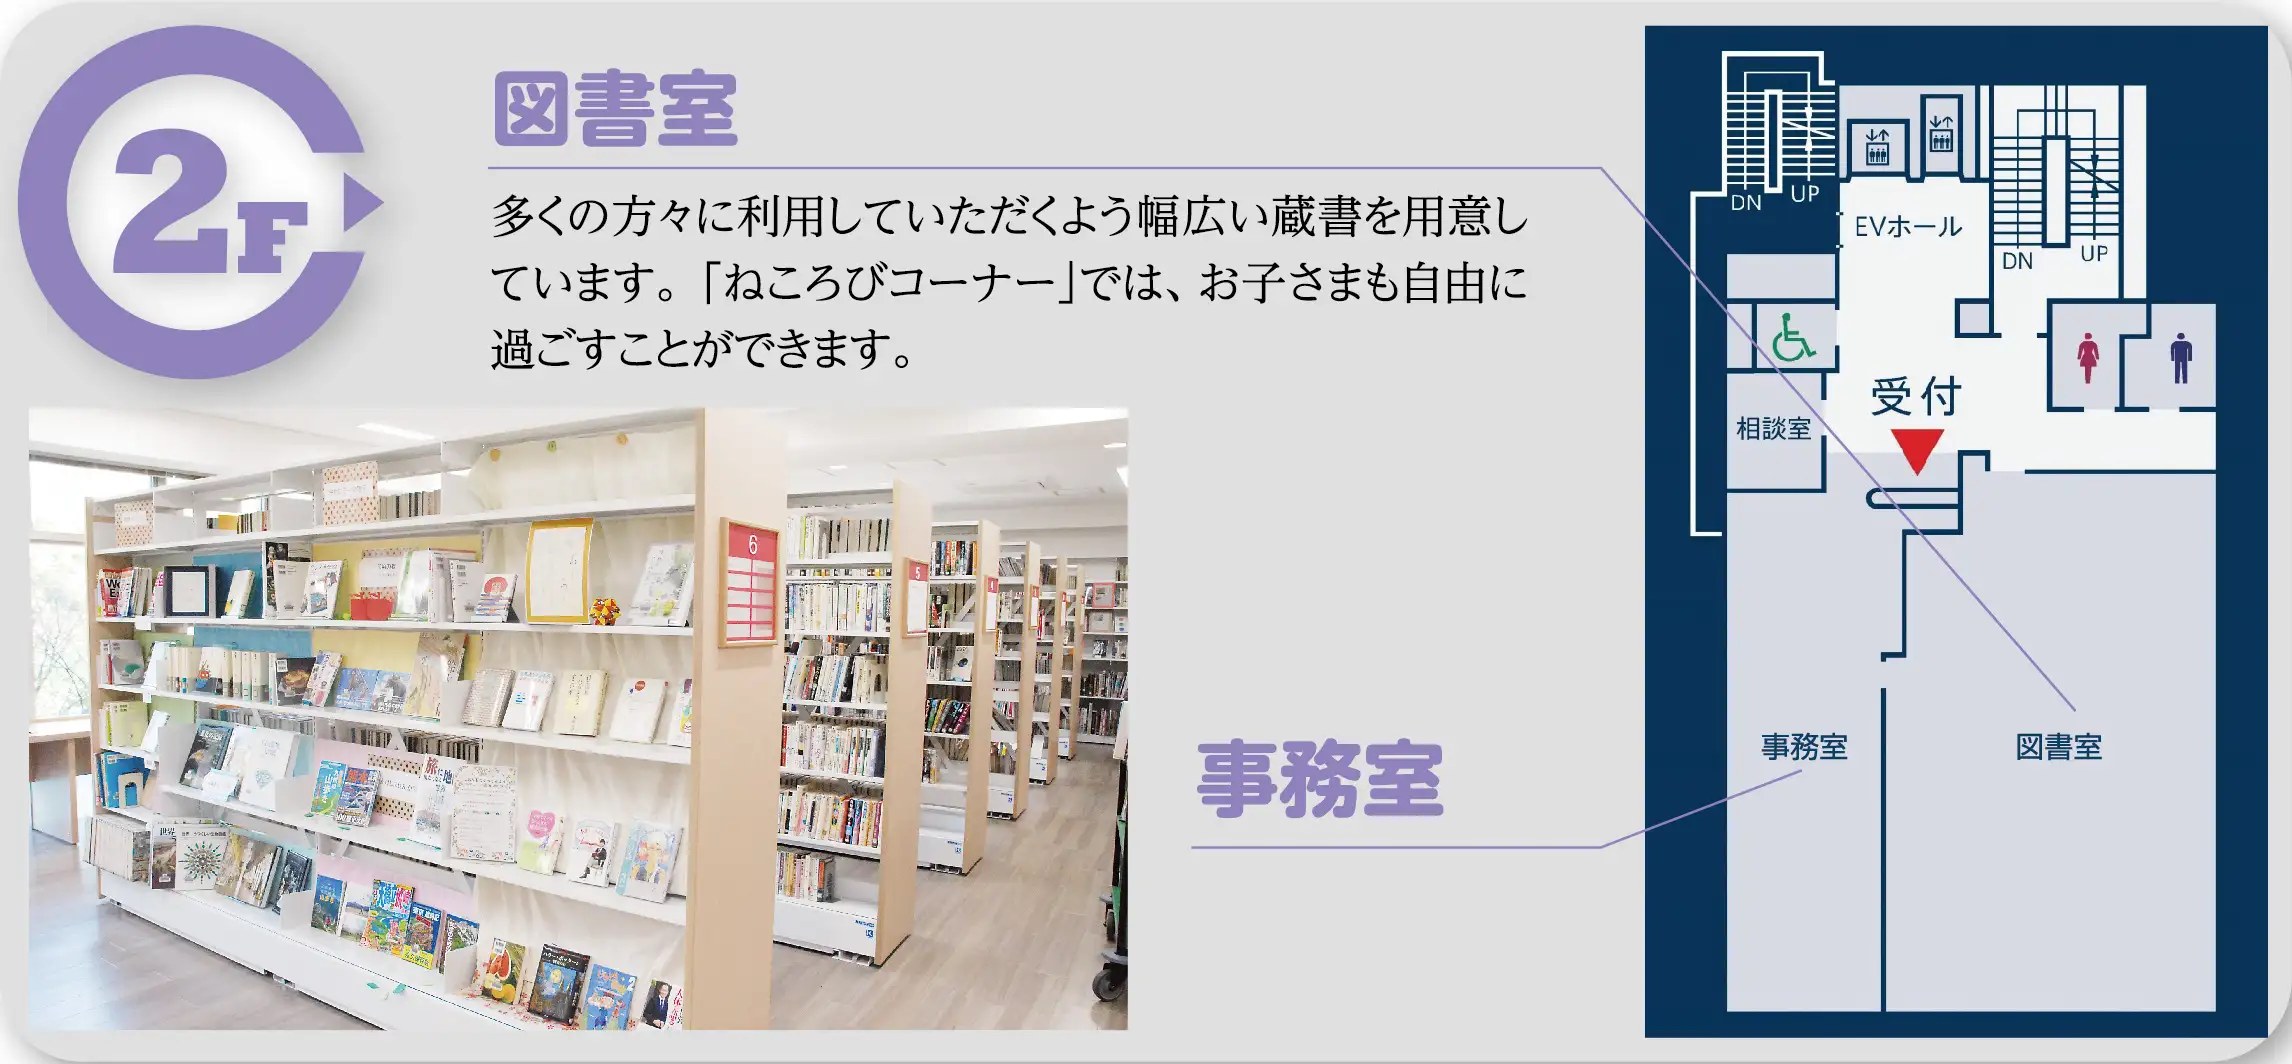
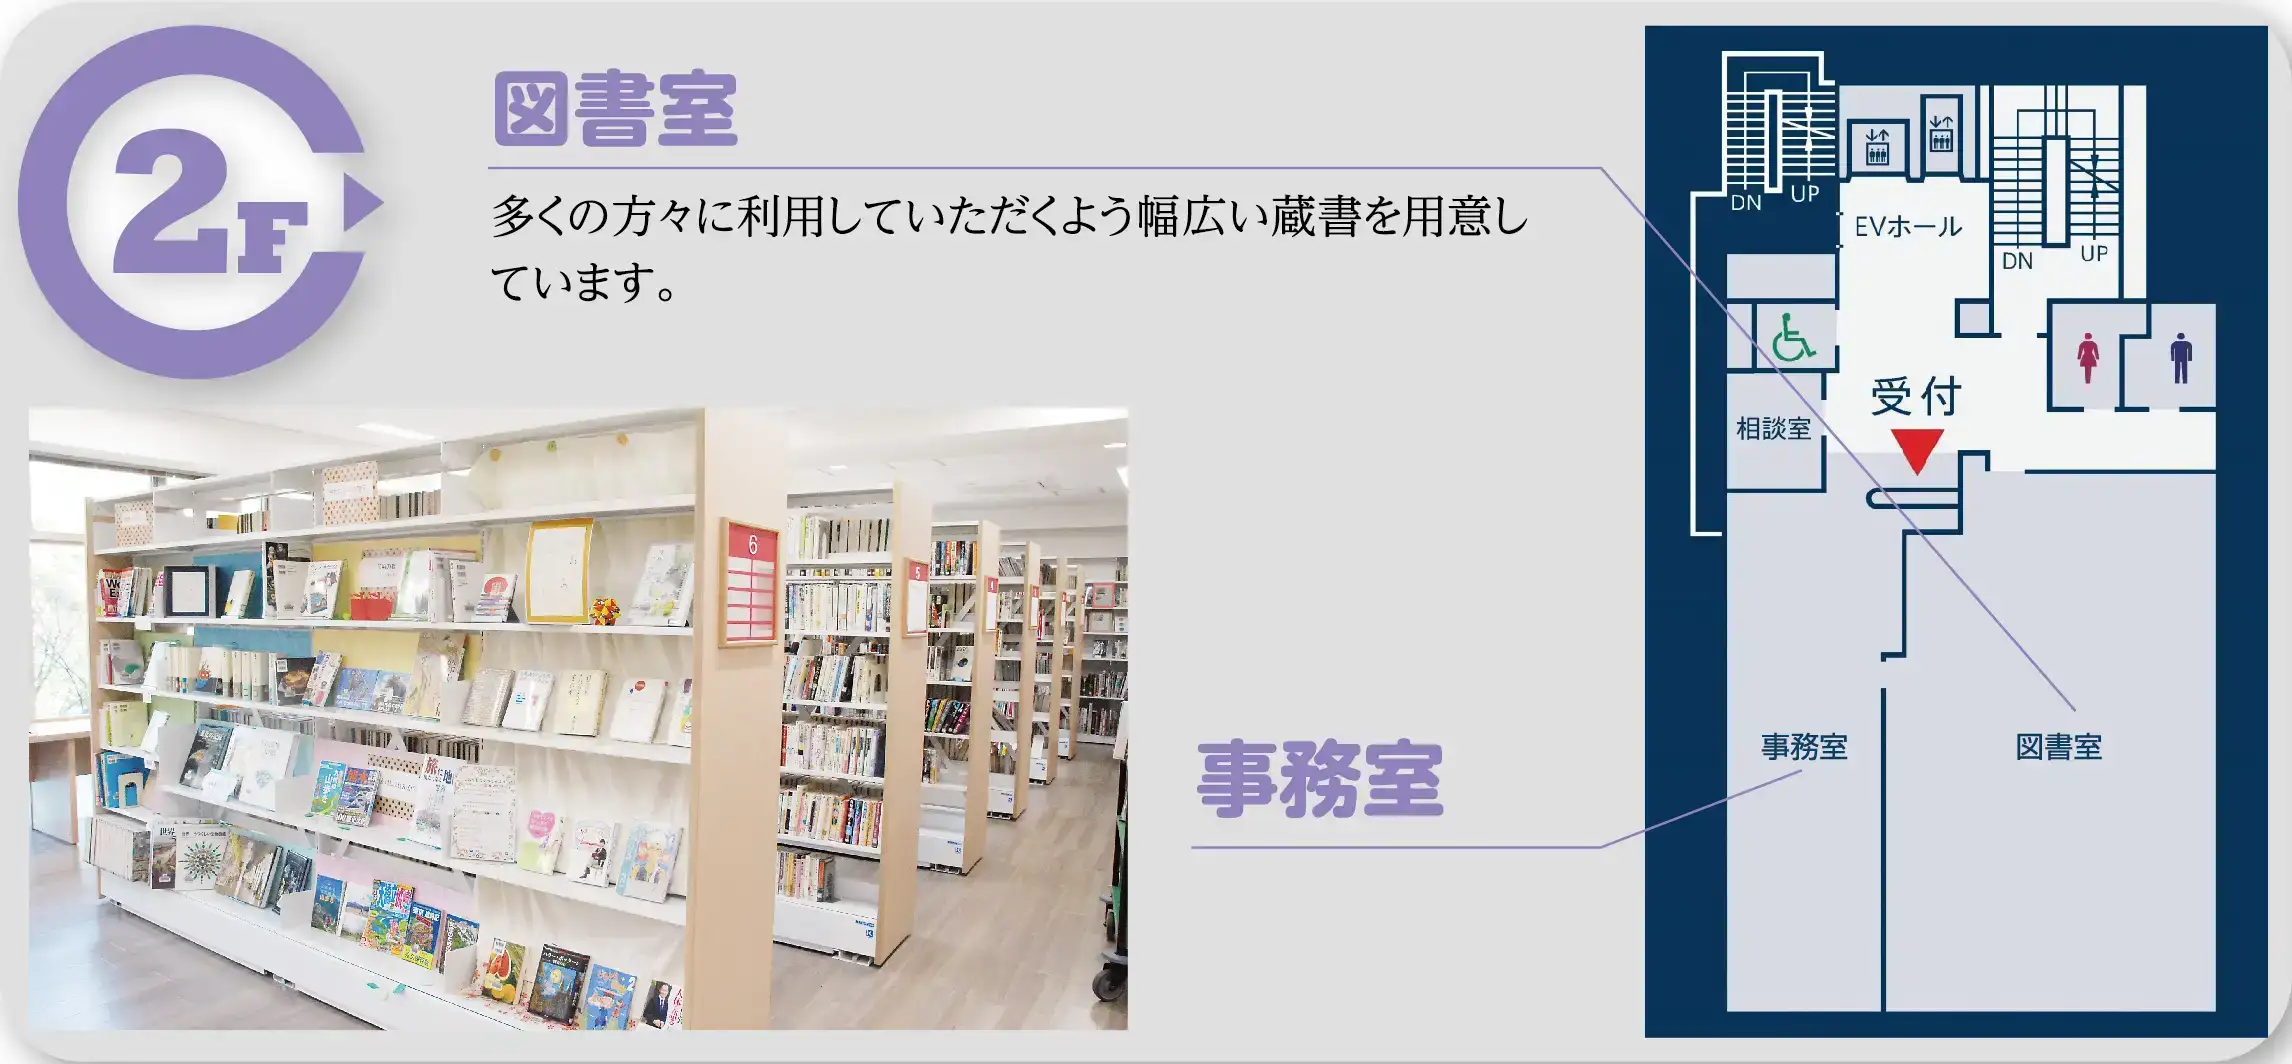
5/12各部修正

Changed region(s): [[0.4647, 0.2481, 0.6815, 0.2791], [0.2168, 0.3102, 0.4027, 0.3412], [0.3098, 0.2481, 0.4337, 0.2791]]

diff --git a/src/components/BlockFacilityDetails.tsx b/src/components/BlockFacilityDetails.tsx
@@ -91,7 +91,7 @@ const BlockFacilityDetails = () => {
             熊本市中央公民館施設利用料金・定員一覧（PDF）
           </ExternalLink>
         </div>
-        <div className={styles.wrapPdf}>
+        {/* <div className={styles.wrapPdf}>
           <h4>公民館だより</h4>
           <ExternalLink
             href="/data/pdf/R7.10月号公民館だより.pdf"
@@ -99,7 +99,7 @@ const BlockFacilityDetails = () => {
           >
             公民館だよりをご覧いただけます（PDF）
           </ExternalLink>
-        </div>
+        </div> */}
       </div>
     </>
   );

diff --git a/src/components/common/Header.tsx b/src/components/common/Header.tsx
@@ -81,14 +81,14 @@ const Header = () => {
             施設のご案内
           </Link>
           <Link
-            href="/#ContainerCourseGuide"
+            href="/#BlockInformation"
             className={styles.itemLink}
             onClick={closeMenu}
           >
             講座のご案内
           </Link>
           <Link
-            href="/#BlockInformation"
+            href="/#ContainerFacilityDetails"
             className={styles.itemLink}
             onClick={closeMenu}
           >
